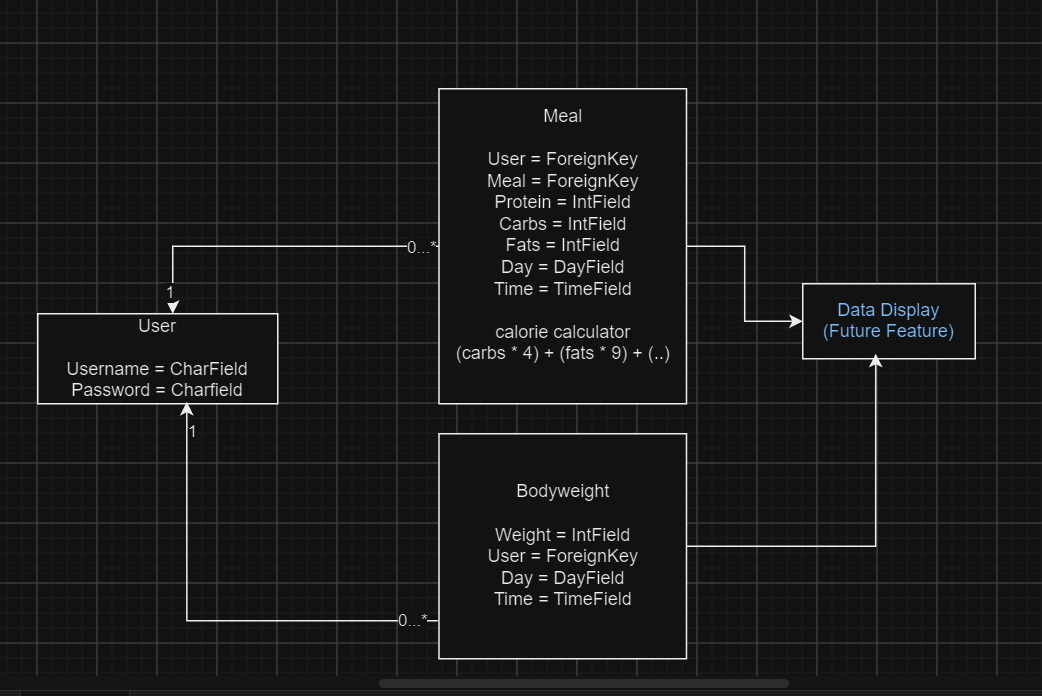
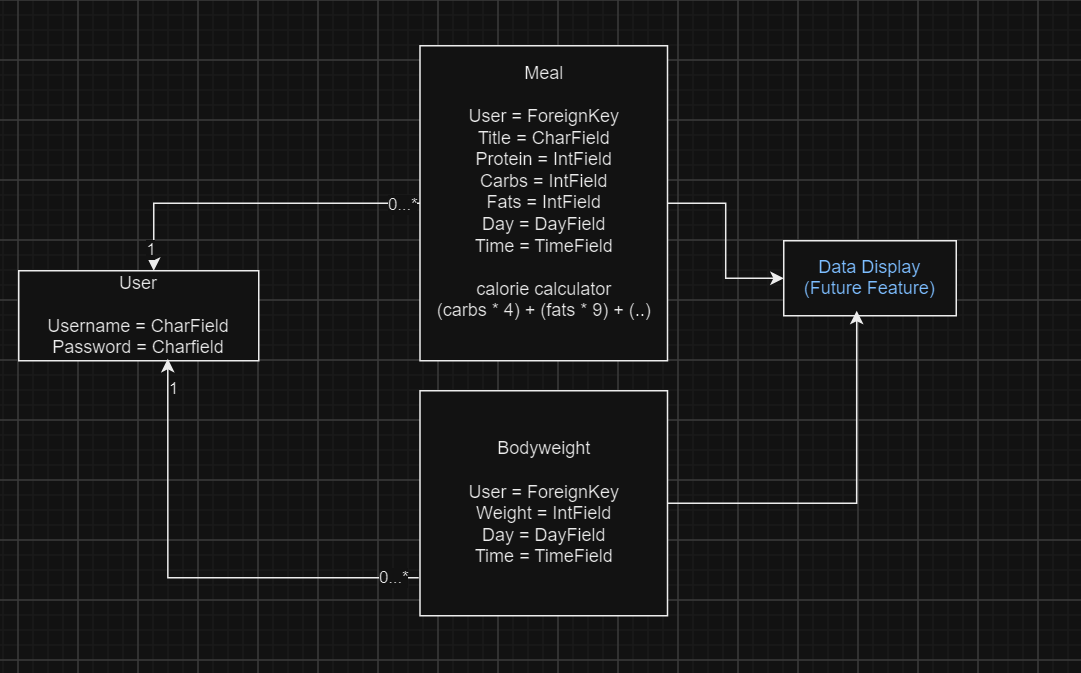
replaced the ERD diagram image. Added new website preview image and images of messages. Made some minor adjustments to the readme document as well as adding images to said document.

diff --git a/README.md b/README.md
@@ -29,7 +29,6 @@ This Meal Tracking App helps users maintain a record of their meals and nutritio
 8. [Bugs](#bugs)
 9. [Design](#design)
    - [Color](#color)
-   - [Typography](#typography)
    - [Wireframes](#wireframes)
    - [Entity Relationship Diagram](#entity-relationship-diagram)
    - [User Interface](#user-interface)
@@ -64,6 +63,10 @@ As a user, I want to be able to:
 - View a list of meals with nutritional breakdowns and total calories.
 - Edit or update my meal details.
 - Delete meals when necessary.
+- Add weight in either kilograms or pounds.
+- View a list of weight entries with their value in kilograms or pounds.
+- Edit or update my weight details.
+- Delete weight entries when necessary.
 - Ensure that my data remains private and secure.
 
 ---
@@ -170,11 +173,14 @@ This epic prioritises making the site easily navigable with a clean UI. It empha
    - The website adapts to all screen sizes, ensuring a smooth experience across devices.
    - Background images adjust for different screen sizes.
   
-     ![View Weight](WeightView.png)
-     ![View Meals](ViewMeals.png)
+     ![Responsiveness Preview](responsive-preview.png)
+
 
 5. **User Feedback with Messages**:
    - Users receive messages confirming actions like meal updates, weight tracking entries, or logouts.
+
+    ![Meal Edited Message](MealMessage.png)
+    ![Weight Deleted Message](WeightMessage.png)
 
 ---
 
@@ -196,11 +202,6 @@ This epic prioritises making the site easily navigable with a clean UI. It empha
 
 The app features a blue and white color scheme for a calm and professional look.
 
-### Typography
-
-- **App Name:** Modern sans-serif font.
-- **Titles:** 'Franklin Gothic Medium'.
-- **Body:** Clean, legible sans-serif fonts.
 
 ### Wireframes
 
